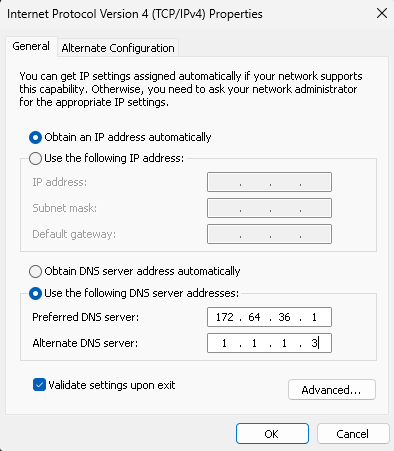
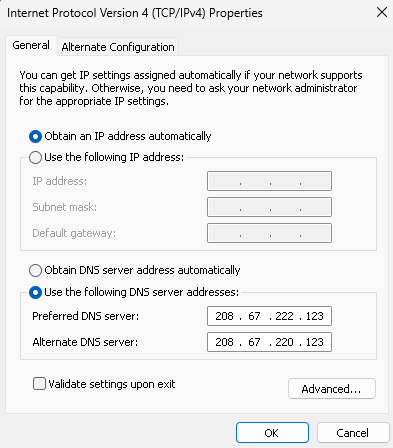
Add images and enhance content filtering instructions in blog post
- Added image-1.png to illustrate DNS settings configuration.
- Updated content in index.md to improve clarity on real-time content scanning methods.
- Introduced Tampermonkey script for advanced redirects to educational content when piracy sites are detected.
- Enhanced descriptions and instructions for using uBlock Origin and Tampermonkey for better user guidance.

diff --git a/src/content/blog/un-bypassable-windows-hardening-for-content-filtering/index.md b/src/content/blog/un-bypassable-windows-hardening-for-content-filtering/index.md
@@ -35,6 +35,8 @@ Even if the router is bypassed, the Windows network adapter acts as a secondary 
 
 ![Configuring IPv4 DNS settings](image-2.png)
 
+![alt text](image-1.png)
+
 Run this in PowerShell as Admin to force system-wide DNS. You have two options:
 
 ### Option A: Active Adapters Only (Standard)
@@ -164,9 +166,11 @@ Since the user is a **Standard User (Layer 5)**, they cannot modify or delete th
 
 ## Layer 7: Real-time Content Scanning (Keyword Blocking)
 
-Even with DNS and IP blocks, some sites might slip through or be dynamic. Using a browser extension like **uBlock Origin**, you can implement real-time content scanning. This layer blocks the entire page if specific keywords or phrases are found in the title or body text.
+Even with DNS and IP blocks, some sites might slip through or be dynamic. We can implement real-time content scanning at the browser level to block the entire page if specific keywords or phrases are found.
 
-The keywords below are common title markers for popular piracy websites. These sites are notorious for distributing illegal movies while simultaneously serving "semi-adult" (explicit) content through aggressive advertisements or direct hosting.
+### Option A: uBlock Origin (Static Blocking)
+
+Using a browser extension like **uBlock Origin**, you can implement real-time content scanning. The keywords below are common title markers for popular piracy websites that often serve "semi-adult" content.
 
 ![my filter](image.png)
 
@@ -186,7 +190,72 @@ Add these to your "My filters" tab in uBlock Origin:
 *##body:has-text(Download Film Semi)
 ```
 
-This ensures that even if a new domain appears, if it uses the same branding or content markers, it will be instantly hidden.
+### Option B: Tampermonkey (Advanced Redirects)
+
+For a more "educational" approach, you can use **Tampermonkey** to redirect the user to a specific video (e.g., a security awareness video) when a violation is detected. This method allows for complex logic, such as excluding trusted domains like Google or your own workspace.
+
+Create a new script in Tampermonkey and paste the following:
+
+```javascript
+// ==UserScript==
+// @name         Redirect Piracy Sites by Content
+// @namespace    http://tampermonkey.net/
+// @version      1.1
+// @description  Redirects the page to YouTube if specific piracy brands or text are found.
+// @match        *://*/*
+// @exclude      *://*.farros.co/*
+// @exclude      *://farros.co/*
+// @exclude      *://*.medium.com/*
+// @exclude      *://medium.com/*
+// @exclude      *://*.google.com/*
+// @exclude      *://google.com/*
+// @exclude      *://*.youtube.com/*
+// @exclude      *://youtube.com/*
+// @grant        none
+// @run-at       document-idle
+// ==/UserScript==
+
+(function() {
+    'use strict';
+
+    // The YouTube URL you want to redirect to
+    const targetURL = "https://www.youtube.com/watch?v=fbTlW1V2VuI&t=2726s";
+
+    // Regex for titles
+    const badTitles = [
+        /lk21/i, /dunia21/i, /layarkaca21/i, /rebahin/i, /idlix/i, /bos21/i, /indoxx1/i
+    ];
+
+    // Regex for body text
+    const badText = [
+        /nonton film semi/i, /download film semi/i
+    ];
+
+    let shouldRedirect = false;
+
+    // Check document title
+    if (document.title && badTitles.some(regex => regex.test(document.title))) {
+        shouldRedirect = true;
+    }
+
+    // Check body text
+    if (!shouldRedirect && document.body) {
+        const pageText = document.body.innerText || document.body.textContent;
+        if (badText.some(regex => regex.test(pageText))) {
+            shouldRedirect = true;
+        }
+    }
+
+    // Redirect to YouTube if a match is found
+    if (shouldRedirect) {
+        // Clear the page instantly to hide the content while the redirect happens
+        document.documentElement.innerHTML = '<h1 style="text-align:center; margin-top:20%; font-family:sans-serif;">Redirecting to Educational Content...</h1>';
+        window.location.replace(targetURL);
+    }
+})();
+```
+
+This ensures that even if a new domain appears, if it uses the same branding or content markers, it will be instantly hidden and redirected.
 
 ## Layer 8: Extension Persistence (The Force Install)
 
